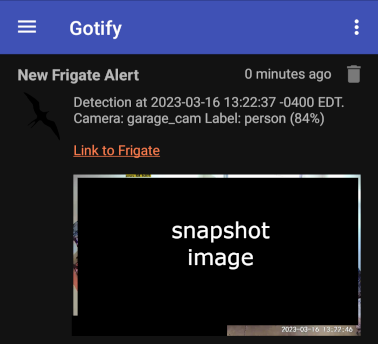
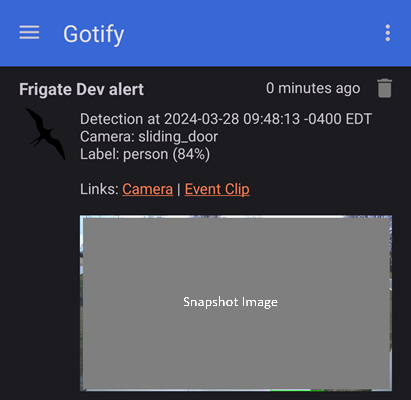
Update screenshots, docs, README, and example config

diff --git a/docs/changelog.md b/docs/changelog.md
@@ -1,6 +1,6 @@
 # Changelog
 
-## [v0.2.4](https://github.com/0x2142/frigate-notify/releases/tag/v0.2.4) - Mar 27 2024
+## [v0.2.4](https://github.com/0x2142/frigate-notify/releases/tag/v0.2.4) - Mar 28 2024
 
  - Added support for alerts via [Telegram](https://frigate-notify.0x2142.com/config/#telegram)
  - Updated notification message to now include links to the camera & event clip

diff --git a/README.md b/README.md
@@ -49,6 +49,14 @@ The sample config contains inline descriptions for each field. For additional de
 
 ![Gotify](/screenshots/gotify.png)
 
+**SMTP**
+
+![SMTP](/screenshots/smtp.png)
+
+**Telegram**
+
+![Telegram](/screenshots/telegram.png)
+
 ## Changelog
 
 Additional details on each release are in the [Changelog](https://frigate-notify.0x2142.com/changelog/)

diff --git a/docs/index.md b/docs/index.md
@@ -10,7 +10,7 @@ This project is designed to generate notifications based on [Frigate](https://gi
 
 Currently Frigate only supports notifications through Home Assistant, which I'm not using right now. So I set out to build a simple notification app that would work with a standalone Frigate server.
 
-## Features 
+## Features
 
 **Event Polling**
 
